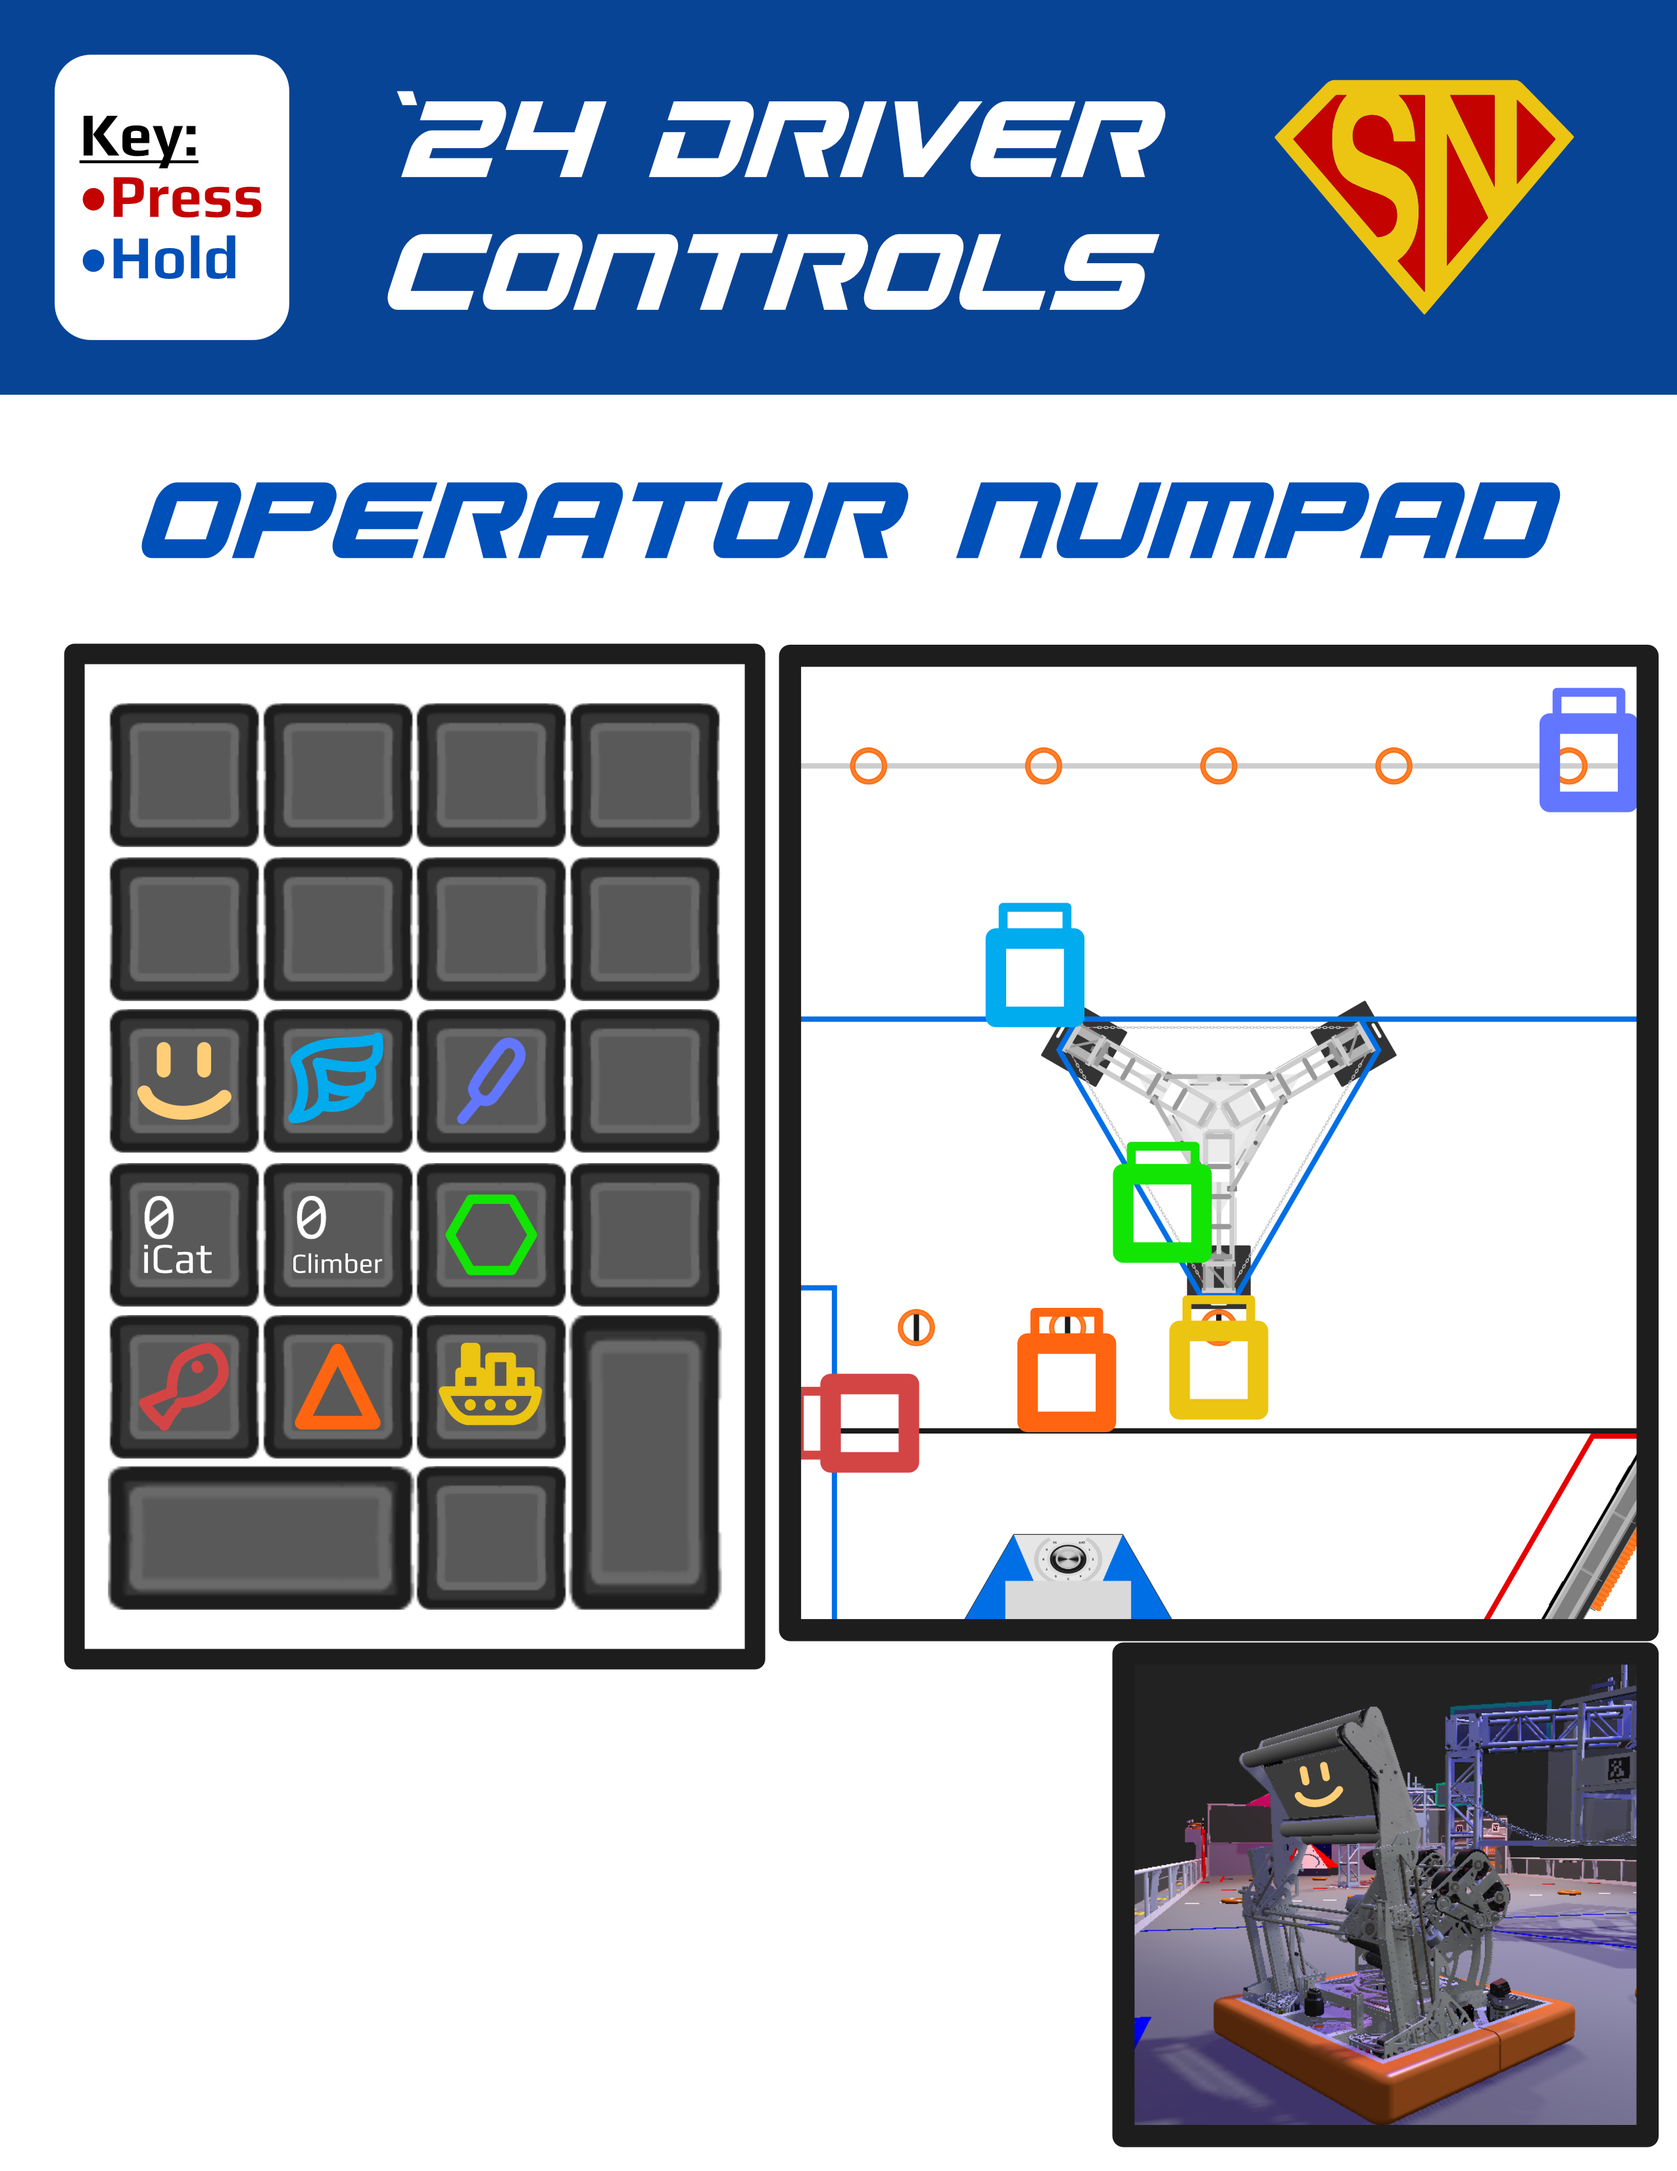
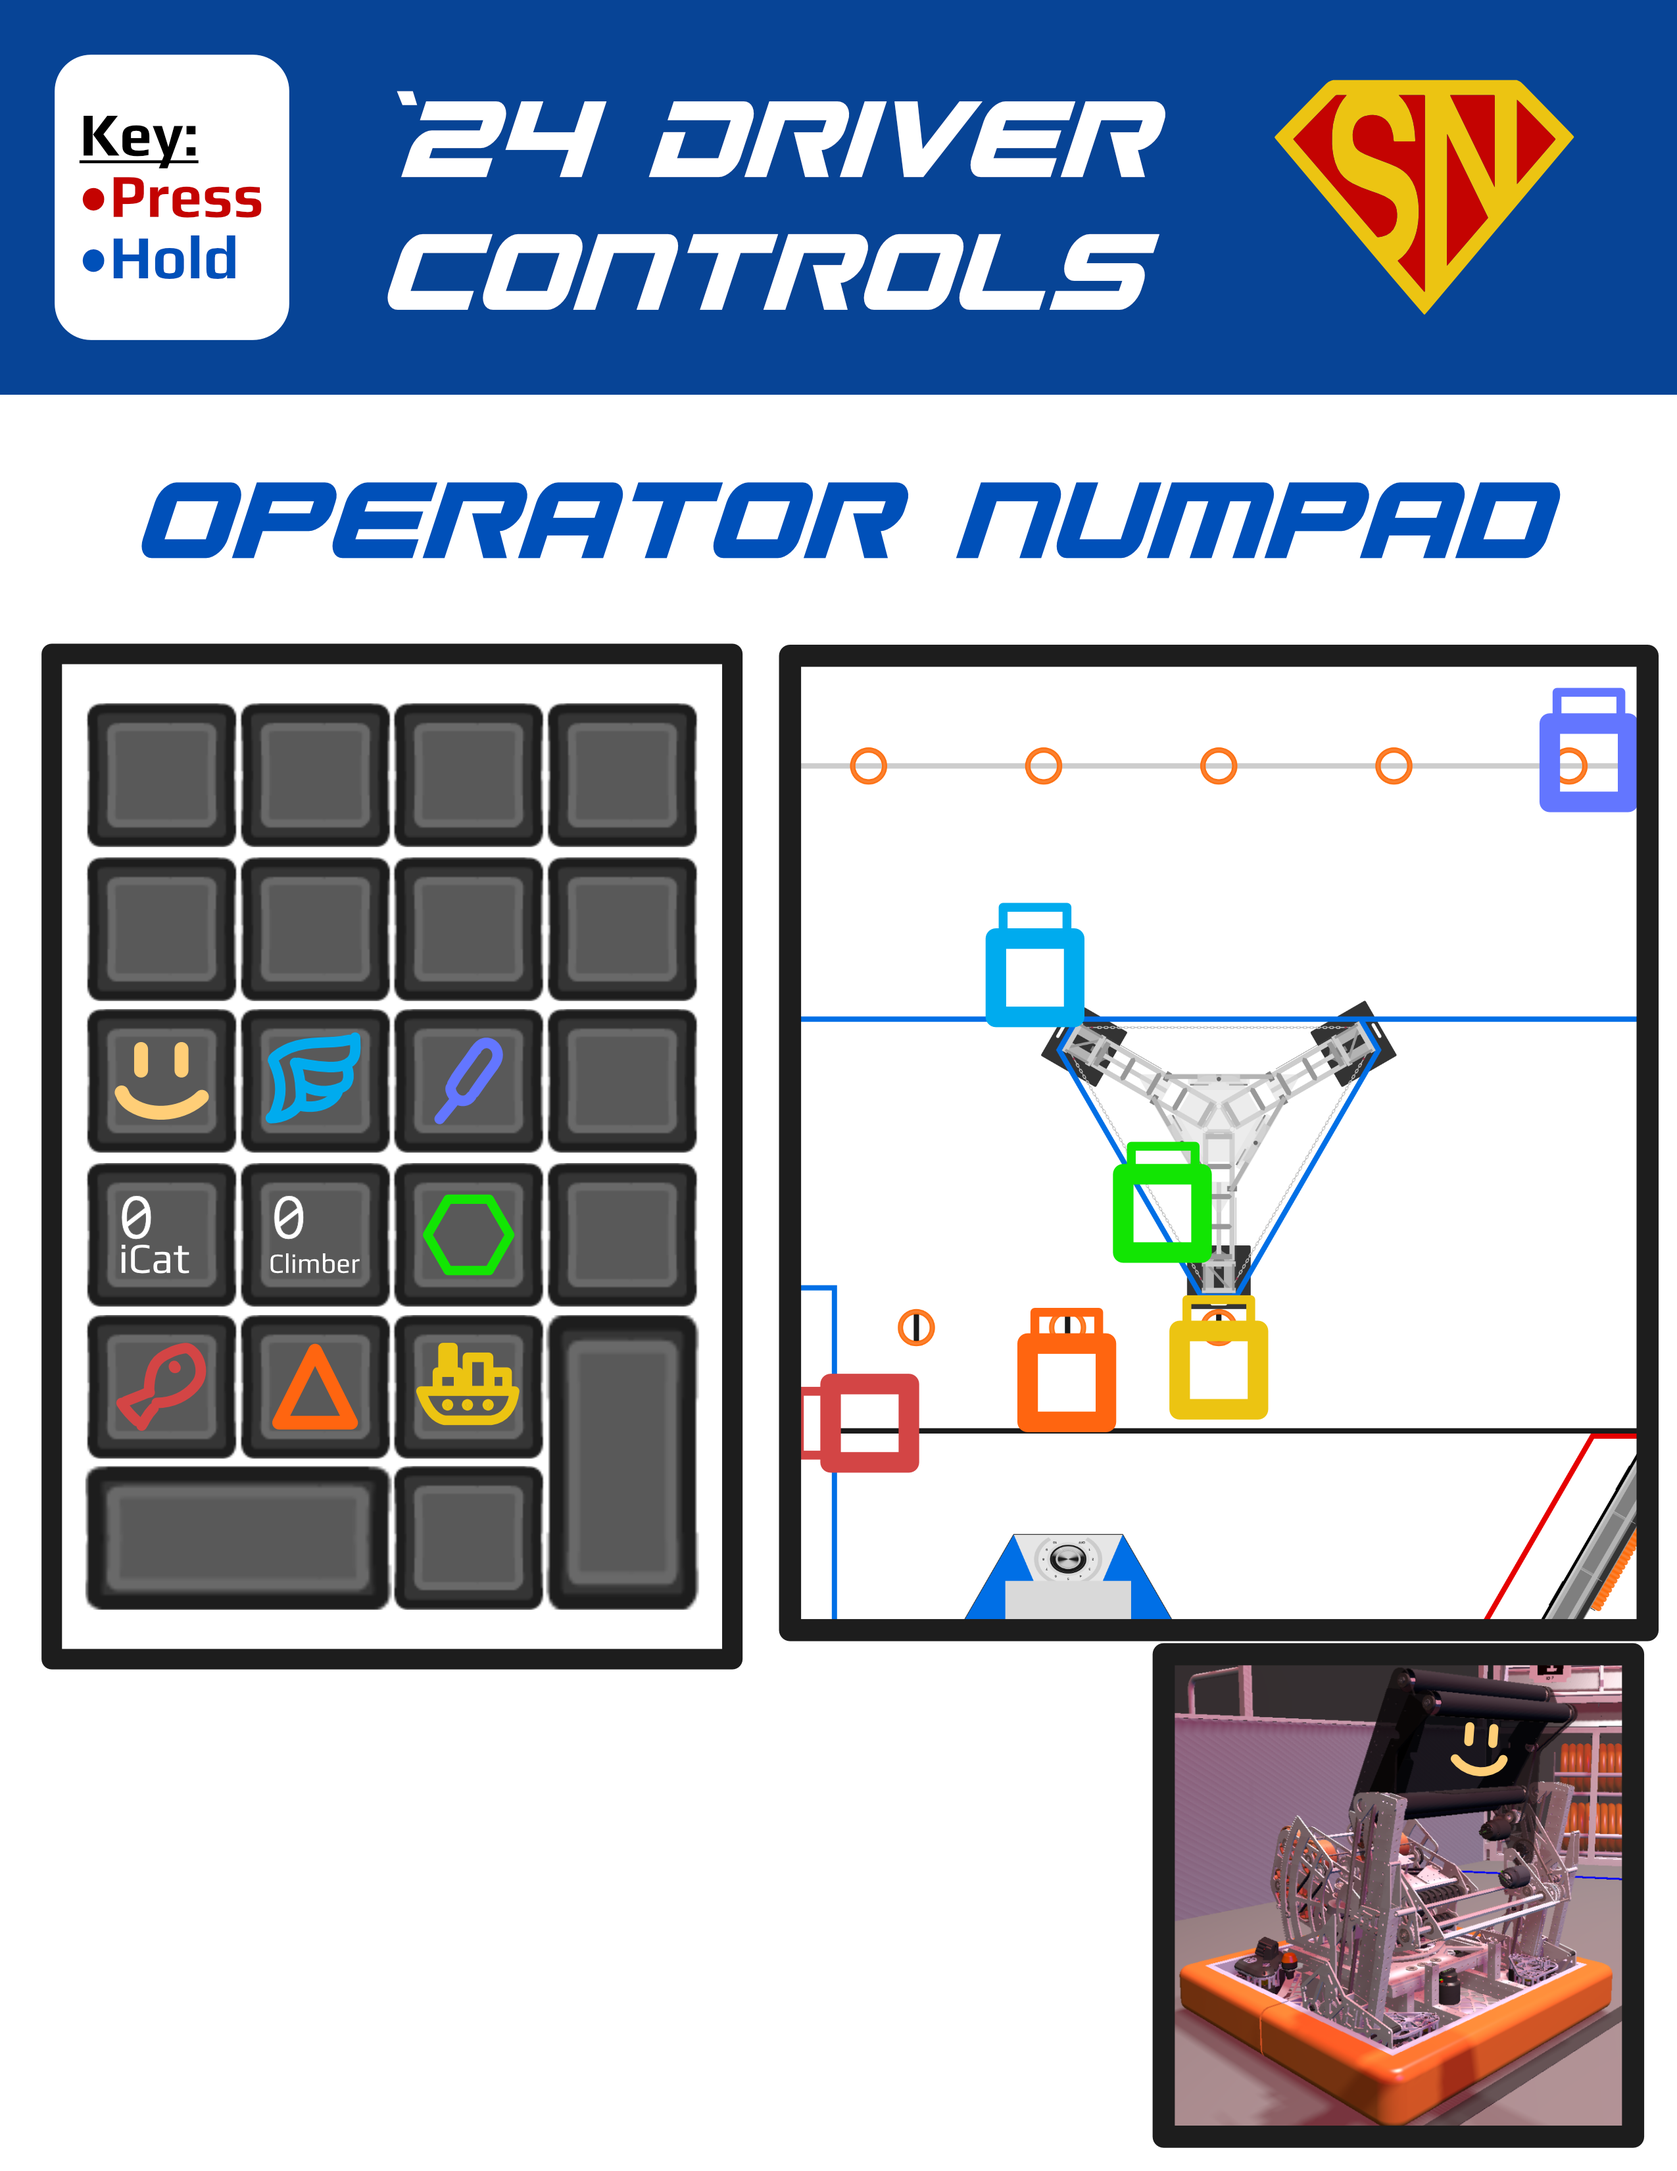
Begin updating README with sim photos

Changed region(s): [[0.0, 0.2809, 0.3718, 0.7803], [0.6506, 0.7491, 0.9914, 0.9988], [0.4027, 0.2809, 0.4647, 0.7803]]

diff --git a/src/main/java/frc/robot/subsystems/Climber.java b/src/main/java/frc/robot/subsystems/Climber.java
@@ -12,6 +12,7 @@ import com.ctre.phoenix6.hardware.TalonFX;
 import com.frcteam3255.utils.SN_Math;
 
 import edu.wpi.first.math.MathUtil;
+import edu.wpi.first.math.util.Units;
 import edu.wpi.first.wpilibj.smartdashboard.SmartDashboard;
 import edu.wpi.first.wpilibj2.command.SubsystemBase;
 import frc.robot.Robot;
@@ -162,7 +163,7 @@ public class Climber extends SubsystemBase {
   }
 
   public double getDesiredPosition() {
-    return desiredPosition;
+    return Units.feetToMeters(desiredPosition);
   }
 
   /**

diff --git a/README.md b/README.md
@@ -5,6 +5,8 @@ Shang-Chi competed at the regional level in the following competitions:
 - [Port Hueneme](https://www.thebluealliance.com/event/2024caph)
 - [San Diego](https://www.thebluealliance.com/event/2024casd)
 
+At the end of qualification matches at SDR, Shang-Chi ranked 2nd of 51 teams. We ultimately placed 4th as the 2nd seeded alliance with [Team 2102 Team Paradox](https://www.thebluealliance.com/team/2102/2024) and [Team 3341 Option 16](https://www.thebluealliance.com/team/3341/2024)!
+
 ## View Shang-Chi in Action!
 - [Instagram](https://www.instagram.com/frcteam3255/) 
 - [YouTube (Primary)](https://www.youtube.com/@FRC3255)
@@ -21,8 +23,9 @@ competitions (depending on region) to qualify for the FIRST Championship in Hous
 
 Interested in learning more about CRESCENDO? Visit [FIRST's website](https://www.firstinspires.org/robotics/frc/game-and-season) for more details!
 
-## San Diego Regional
-At the end of qualification matches at SDR, Shang-Chi ranked 2nd of 51 teams. As captain of the 2nd seeded alliance, our team chose [Team 2102 Team Paradox](https://www.thebluealliance.com/team/2102/2024) and [Team 3341 Option 16](https://www.thebluealliance.com/team/3341/2024). Our alliance made it to semifinals before being eliminated, ultimately placing 4th overall.
+## Robot Features
+
 
 ## Controls
-![Controls](src/main/assets/controllerMap2024.png)
+![Controllers](src/main/assets/controllerMap2024.png)
+![Numpad](src/main/assets/numpadMap2024.png)
